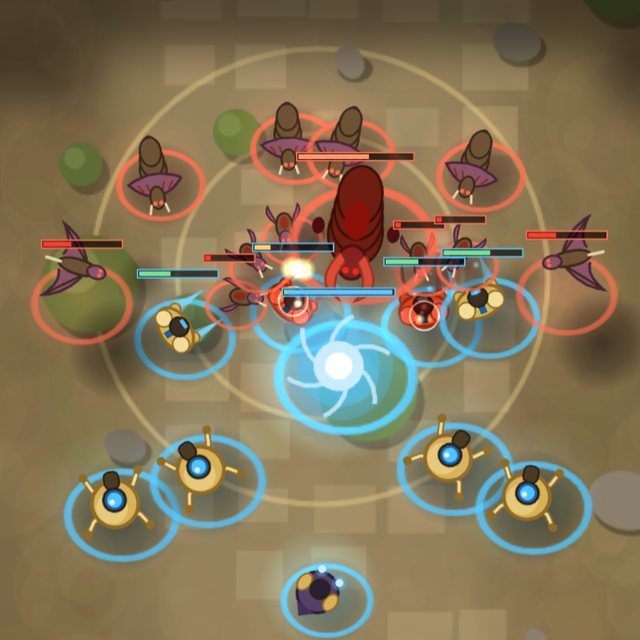
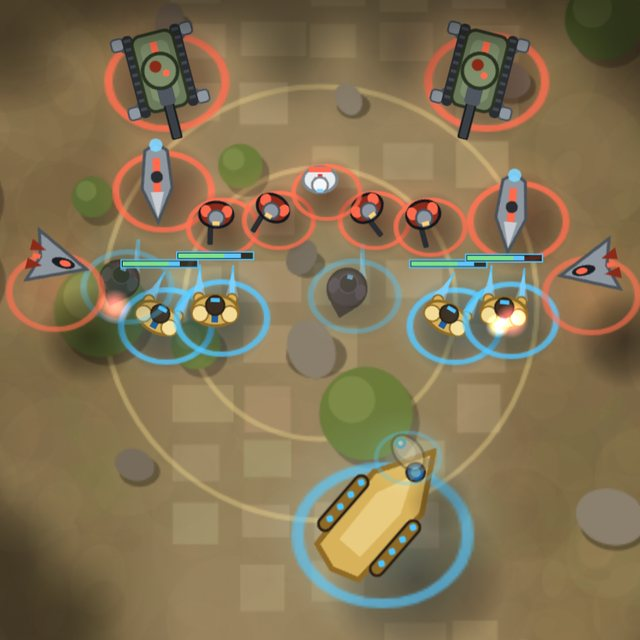
스타드래프트 홈 썸네일: 질럿·다크템플러·캐리어·옵저버 대 벌처·탱크·해병·메딕·레이스 교전 장면으로 교체
Claude-Session: https://claude.ai/code/session_015J2jsBf82P2TR3guAuxeab

diff --git a/app/page.tsx b/app/page.tsx
@@ -925,7 +925,7 @@ function GameArtwork({ game }: { game: GameDefinition }) {
   }
 
   if (game.id === "starswar") {
-    // 썸네일: 게임 렌더러로 그린 프로토스 대 저그 교전 장면(public/starswar/card.jpg).
+    // 썸네일: 게임 렌더러로 그린 교전 장면(public/starswar/card.jpg). 아군 질럿·다크템플러·캐리어·옵저버 대 적 벌처·시즈 탱크·해병·메딕·레이스.
     return <div className="card-art casual-card-art starswar" aria-hidden="true"><img src="/starswar/card.jpg" alt="" /><i /><span className="float-chip">WARP · WAVE</span></div>;
   }
 
